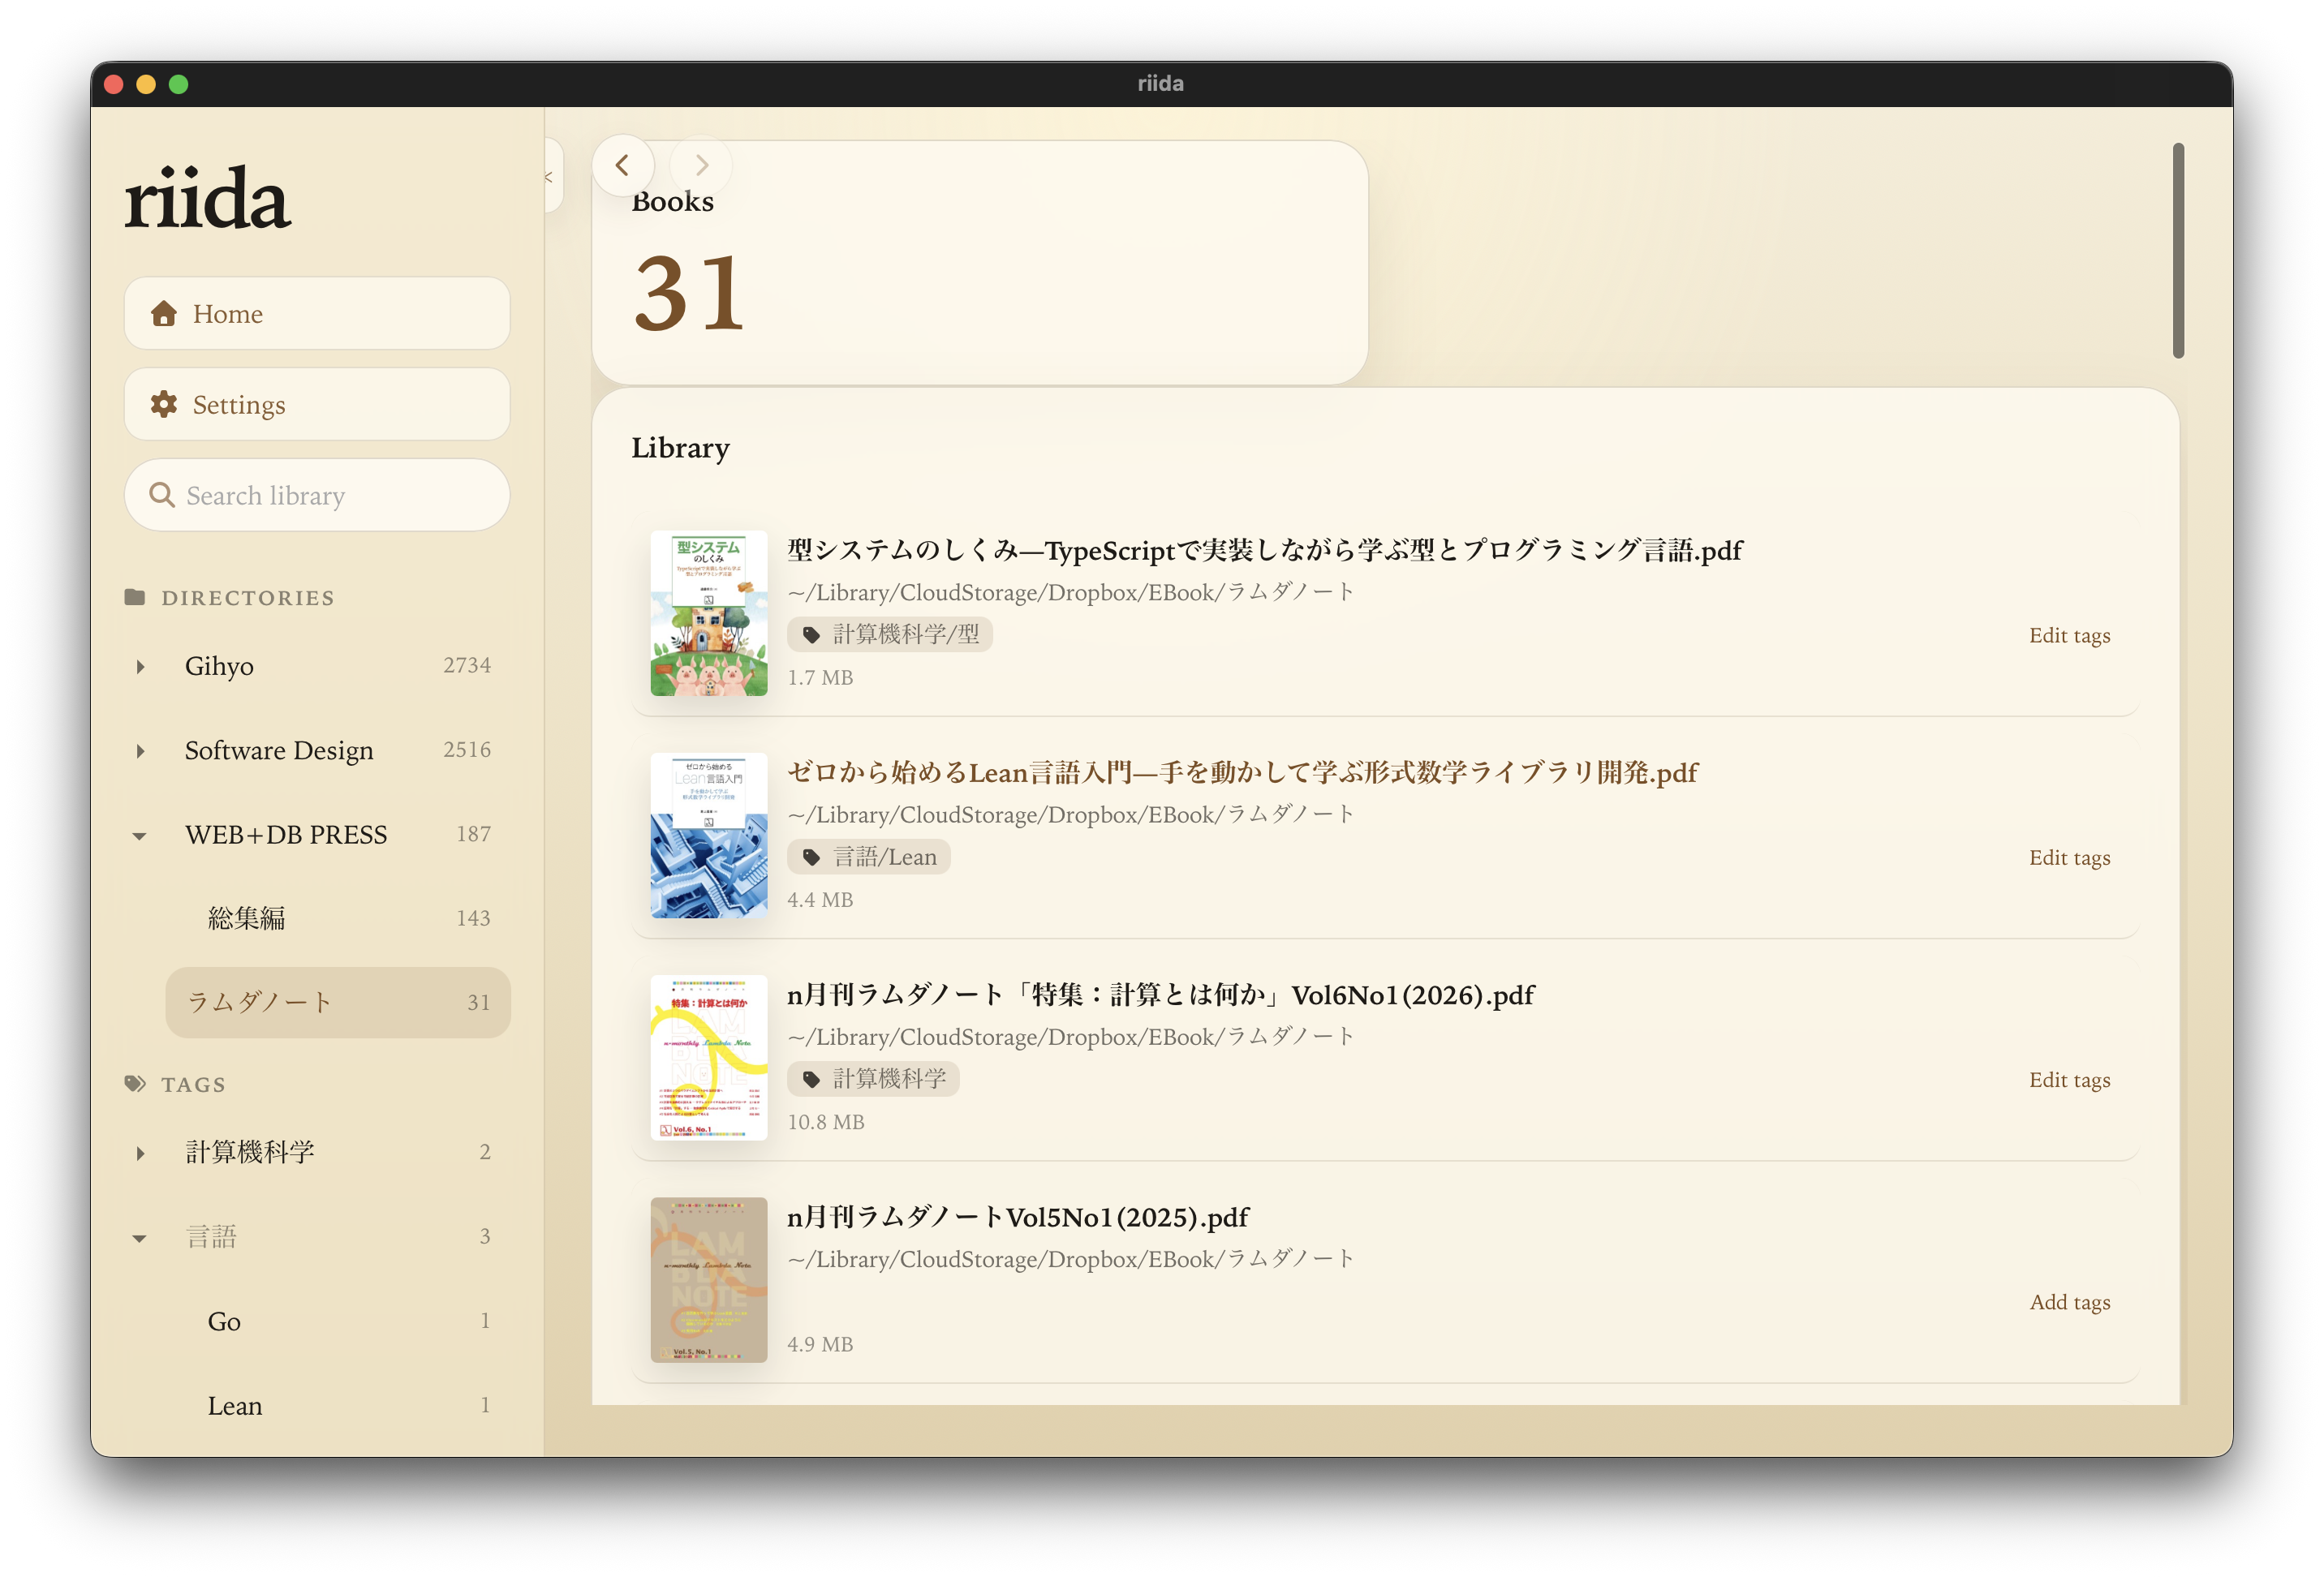
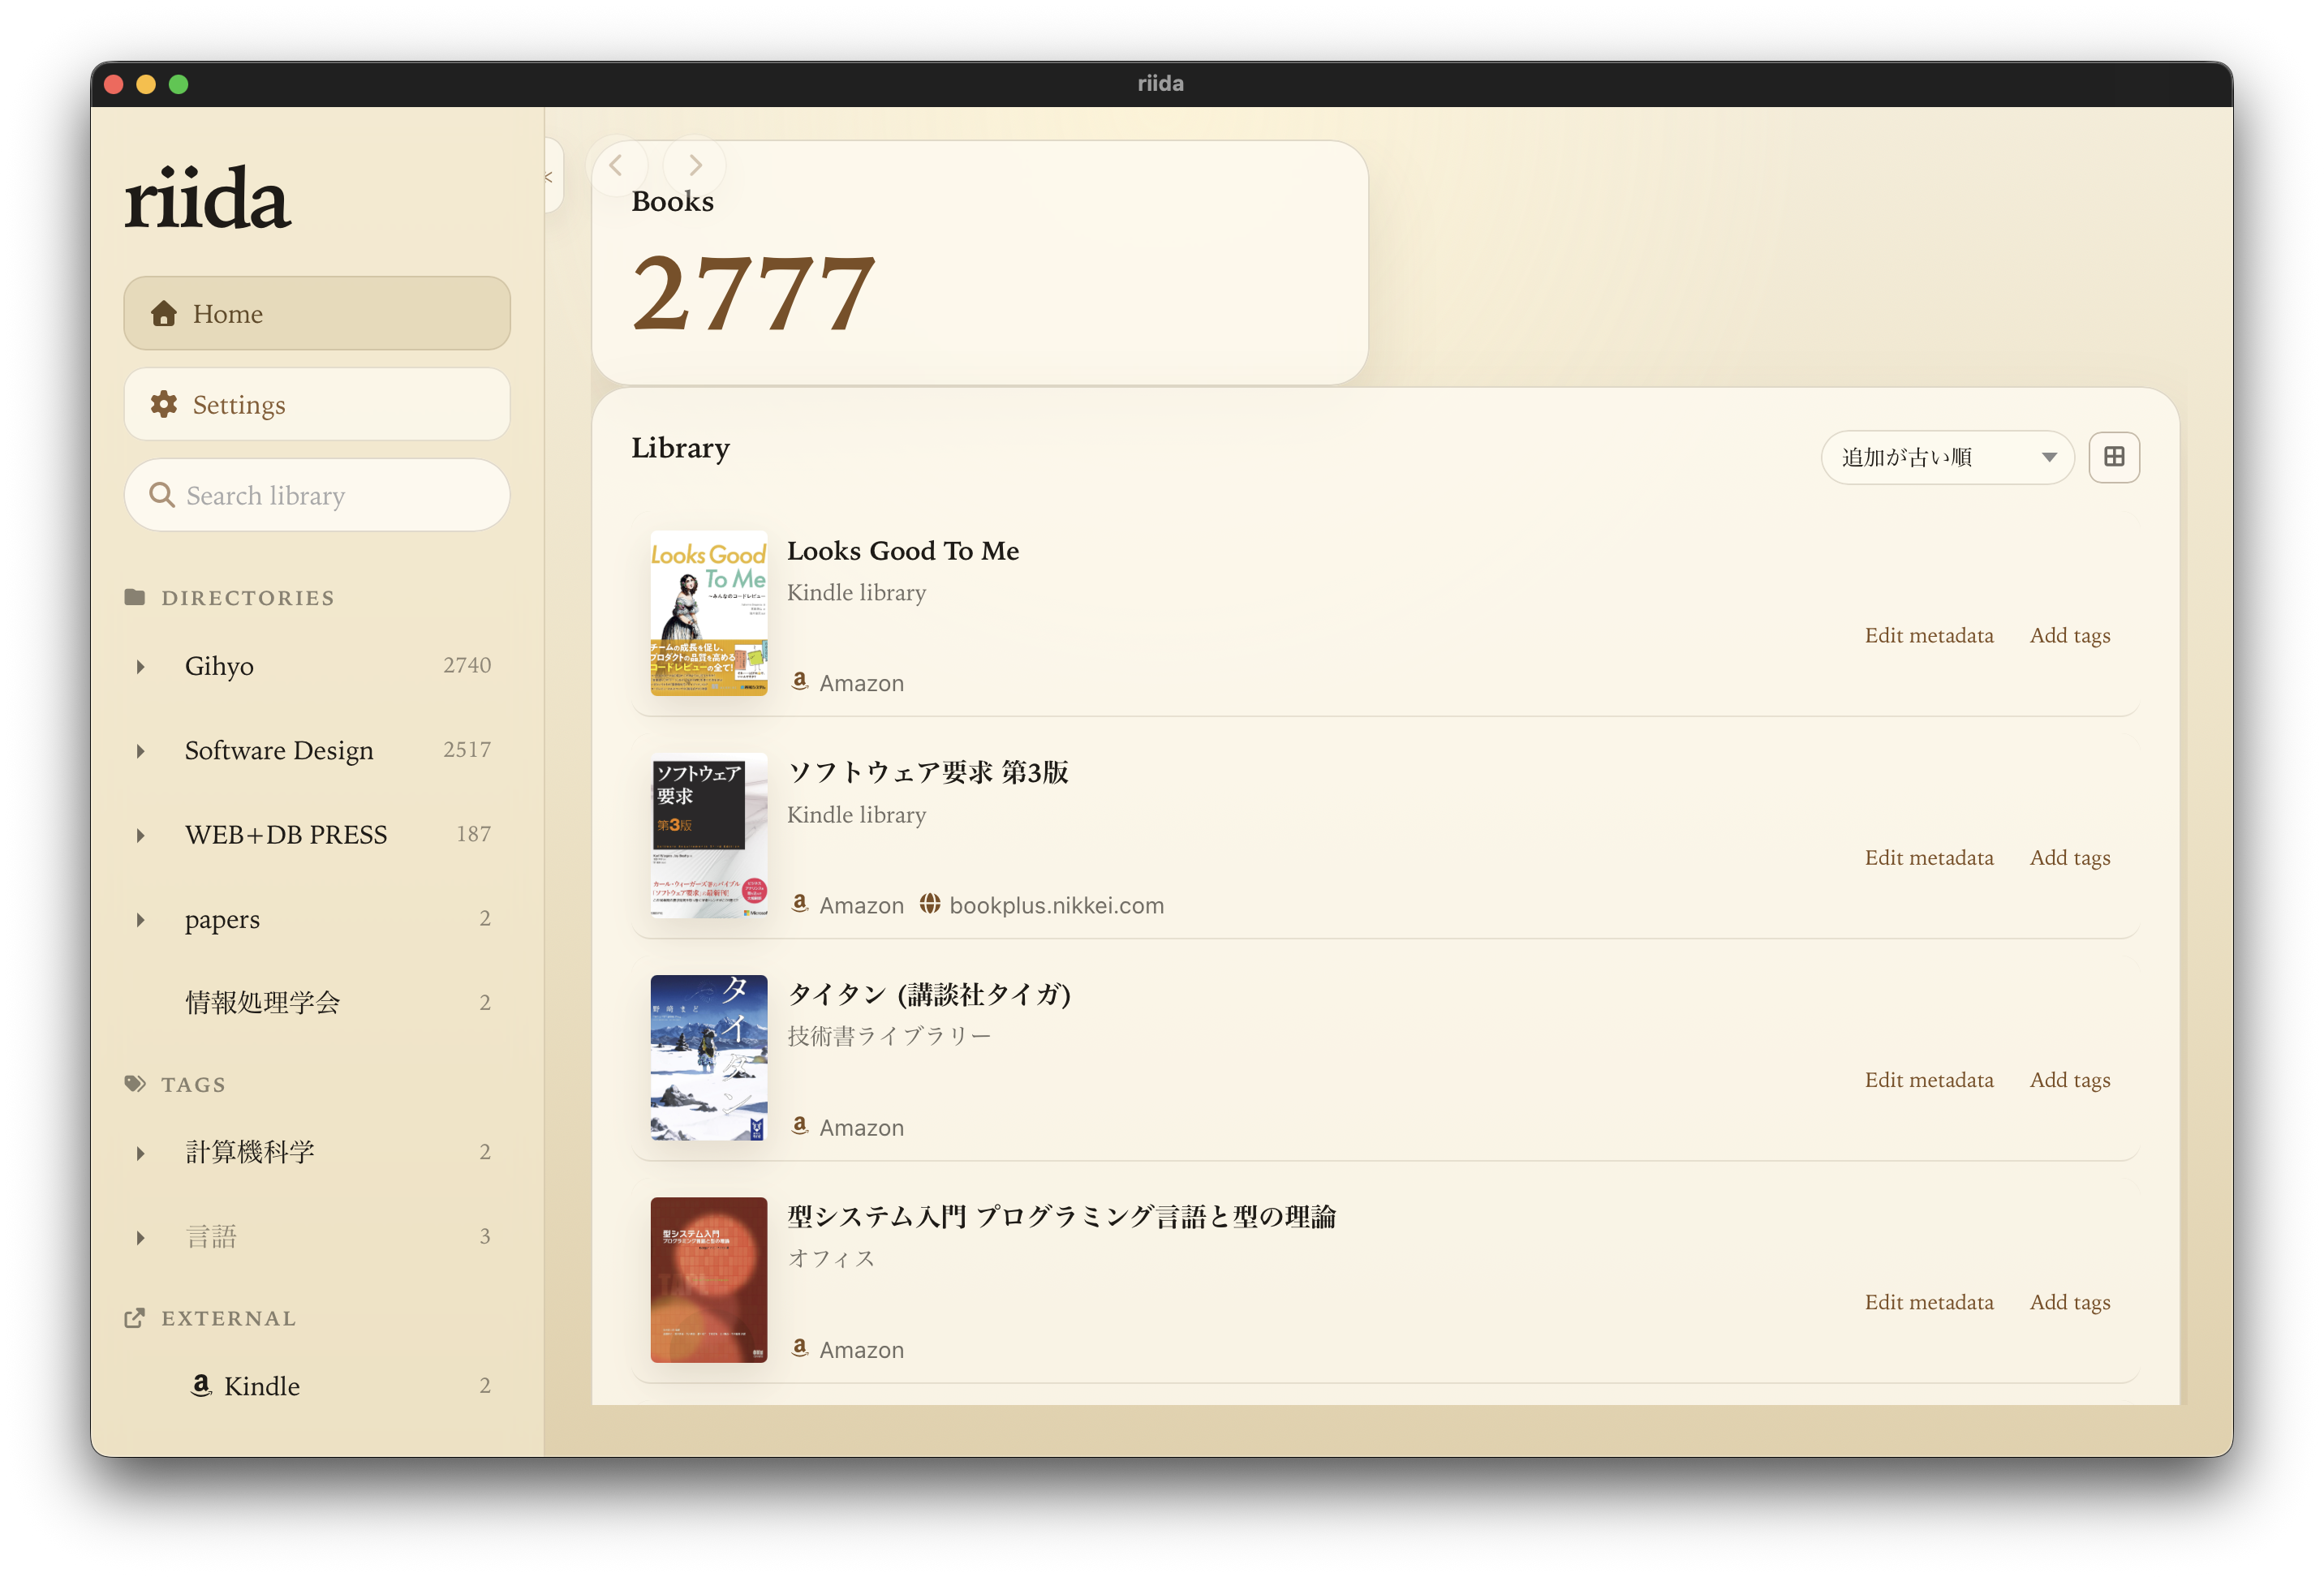
Rewrite README for end users and refresh main screenshot

diff --git a/README.md b/README.md
@@ -1,12 +1,22 @@
 # riida
 
-`riida` is a Tauri + Rust desktop app for managing and reading local PDF libraries.
+`riida` is a desktop reading app and library manager for your local PDF and EPUB collection.
 
-It was created to meet the needs of an author who owns more than 1,000 ebooks and wants to reach the right book quickly through a single bookshelf app with a built-in PDF reader.
+It was built for readers who own hundreds or thousands of ebooks and want a single bookshelf with a built-in reader, fast search, notes, and metadata management.
 
-The name "Riida" comes from "Reader", reflecting that primary goal.
+The name comes from "Reader."
 
 ![](img/screenshot-main.png)
+
+## What you can do
+
+- Index PDFs and EPUBs from one or more folders you choose, and keep them in sync as files change
+- Browse your library by directory, tag, or full-text search across titles and authors
+- Read PDFs and EPUBs in the built-in viewer, with viewer settings remembered per file
+- Take notes on any book, autosaved to your machine
+- Edit metadata (title, authors, publisher, release date, language, cover, etc.)
+- Tag books and bulk-edit tags or metadata for many books at once
+- Track external books you don't own a file for — for example, register Kindle purchases as library entries with metadata
 
 ## Install
 
@@ -14,34 +24,62 @@ Download an installer for your platform from:
 
 - [riida releases](https://github.com/zonuexe/riida/releases)
 
-On macOS, if Gatekeeper refuses to open the downloaded app, move it to `/Applications` and run:
+### macOS
 
-```bash
-xattr -cr /Applications/riida.app
+riida is not signed with a paid Apple Developer ID, so Gatekeeper may refuse to open it on first launch. To allow it:
+
+1. Move `riida.app` to `/Applications`
+2. Run:
+
+   ```bash
+   xattr -cr /Applications/riida.app
+   ```
+
+3. Open the app
+
+This is intended for personal use on your own machine.
+
+## Quick start
+
+1. Launch the app and open **Settings**
+2. Add one or more folders containing your PDFs/EPUBs to **Library roots**
+3. Save — riida scans the folders and shows your library on the main screen
+4. Click any book to start reading
+
+The library refreshes automatically when you add or remove files in those folders.
+
+## Power-user tools
+
+### Update book metadata via Claude Code (MCP server)
+
+riida ships with an [MCP](https://modelcontextprotocol.io/) server that lets [Claude Code](https://claude.com/product/claude-code) (or Claude Desktop) read your library and fill in missing metadata for you.
+
+With the MCP server configured, you can ask Claude things like:
+
+```
+Find books missing title or author, read the first few pages of each PDF,
+guess the title and author from the content, and write the metadata back.
 ```
 
-It is currently focused on:
+You can also combine it with [techbook-mcp](https://github.com/zonuexe/techbook-mcp) to look up Japanese technical books by title and bulk-fill metadata across your library.
 
-- indexing PDFs from a watched local folder
-- browsing the library by directory and search
-- reading with either native PDF rendering or PDF.js
-- keeping per-file notes and viewer preferences locally
+For setup and the full tool list, see [`mcp-server/README.md`](mcp-server/README.md).
 
-## Current Status
+### Amazon.co.jp metadata bookmarklet
 
-This project is still in active development.
+On a Kindle Store / ebook product page on **Amazon.co.jp**, this bookmarklet scrapes the visible product details and copies them as JSON to your clipboard. The JSON shape matches what riida's book metadata editor accepts in its **JSON import** field (title, authors, description, publisher, release date, language, ASIN, cover URL).
 
-The current working setup assumes a local PDF collection such as:
+**Install:** create a new bookmark and paste the entire string below into the bookmark's URL / location field (it must start with `javascript:`). Then open an Amazon.co.jp product page and activate the bookmark.
 
-```toml
-library_roots = ["~/Documents/Ebooks/"]
+**Notes:** Amazon may change their HTML at any time, which can break extraction. Bookmarklets run in the page context — only install code you trust. Clipboard copy requires a secure context (`https://`) and may prompt for permission in some browsers.
+
+```text
+javascript:(async()=>{const norm=s=>(s||'').replace(/[\u200e\u200f\xa0]/g,' ').replace(/\s+/g,' ').trim();const uniq=arr=>[...new Set(arr.filter(Boolean))];const pick=selectors=>{for(const selector of selectors){const el=document.querySelector(selector);if(!el)continue;const text=norm(el.textContent);if(text)return text;}return'';};const fallbackTitle=()=>{let t=document.querySelector('meta[name="title"]')?.content||document.title||'';t=norm(t).replace(/^Amazon\.co\.jp:\s*/,'').replace(/\s+eBook\s*:\s.*$/,'').replace(/\s*:\s*Kindleストア\s*$/,'');if(t.includes(' | '))t=t.split(' | ')[0];return norm(t);};const cleanLabel=s=>norm(s).replace(/\s*[:：]\s*$/,'').trim();const parseDate=s=>{s=norm(s);let m=s.match(/(\d{4})[\/-](\d{1,2})[\/-](\d{1,2})/)||s.match(/(\d{4})年\s*(\d{1,2})月\s*(\d{1,2})日/);if(!m)return'';const[,y,mo,d]=m;return`${y}-${String(mo).padStart(2,'0')}-${String(d).padStart(2,'0')}`;};const parseLanguage=s=>{s=norm(s);const map={'日本語':'ja','英語':'en','フランス語':'fr','ドイツ語':'de','スペイン語':'es','イタリア語':'it','ポルトガル語':'pt','ロシア語':'ru','韓国語':'ko','中国語':'zh','中国語(簡体字)':'zh-Hans','中国語（簡体字）':'zh-Hans','中国語(繁体字)':'zh-Hant','中国語（繁体字）':'zh-Hant'};if(map[s])return map[s];const m=s.match(/^([a-z]{2})(?:[-_][A-Za-z]{2,4})?$/i);return m?m[1].toLowerCase():'';};const addDetail=(details,label,value)=>{label=cleanLabel(label);value=norm(value);if(label&&value&&!(label in details))details[label]=value;};const extractDetails=()=>{const details={};document.querySelectorAll('#detailBulletsWrapper_feature_div li,#detailBullets_feature_div li').forEach(li=>{const labelEl=li.querySelector('.a-text-bold');if(!labelEl)return;const label=cleanLabel(labelEl.textContent);let value='';const listItem=li.querySelector('.a-list-item')||li;for(const child of Array.from(listItem.children)){if(child===labelEl)continue;const text=norm(child.textContent);if(text){value=text;break;}}if(!value){value=norm(li.textContent.replace(labelEl.textContent,'')).replace(/^[:：]\s*/,'');}addDetail(details,label,value);});document.querySelectorAll('#productDetails_detailBullets_sections1 tr,#productDetails_techSpec_section_1 tr').forEach(tr=>{addDetail(details,tr.querySelector('th')?.textContent,tr.querySelector('td')?.textContent);});document.querySelectorAll('.rpi-attribute-content').forEach(card=>{addDetail(details,card.querySelector('.rpi-attribute-label,[class*="attribute-label"]')?.textContent,card.querySelector('.rpi-attribute-value,[class*="attribute-value"]')?.textContent);});return details;};const extractAuthors=()=>uniq(Array.from(document.querySelectorAll('#bylineInfo .author,#bylineInfo_feature_div .author')).map(el=>{const a=el.querySelector('a');const raw=a?a.textContent:(el.childNodes[0]?.textContent||el.textContent||'');return norm(raw).replace(/\s*\([^)]*\)\s*,?$/,'').trim();}));const extractDescription=()=>{const root=document.querySelector('#bookDescription_feature_div .a-expander-content')||document.querySelector('#bookDescription_feature_div')||document.querySelector('#productDescription');if(!root)return'';const clone=root.cloneNode(true);clone.querySelectorAll('script,style,noscript').forEach(n=>n.remove());return norm(clone.textContent.replace(/続きを読む|もっと少なく読む/g,''));};const extractCover=()=>{const img=document.getElementById('landingImage')||document.getElementById('imgBlkFront')||document.getElementById('ebooksImgBlkFront');if(!img)return'';let url=img.getAttribute('data-old-hires');if(!url){const dyn=img.getAttribute('data-a-dynamic-image');if(dyn){try{const urls=Object.keys(JSON.parse(dyn));url=urls[urls.length-1];}catch(e){}}}return url||img.src||'';};const details=extractDetails();const data={};const title=pick(['#productTitle','#ebooksProductTitle','h1#title span','#title span'])||fallbackTitle();const authors=extractAuthors();const description=extractDescription();const publisher=details['出版社']||'';const releaseDate=parseDate(details['発売日']||'')||parseDate(pick(['#productSubtitle']));const language=parseLanguage(details['言語']||'');const asin=norm(document.querySelector('#ASIN')?.value||details['ASIN']||details['ISBN-10']||'');const coverUrl=extractCover();if(title)data.title=title;if(authors.length)data.authors=authors;if(description)data.description=description;if(publisher)data.publisher=publisher;if(releaseDate)data.releaseDate=releaseDate;if(language)data.language=language;if(asin)data.asin=asin;if(coverUrl)data.coverUrl=coverUrl;const json=JSON.stringify(data,null,2);const copy=async text=>{if(navigator.clipboard&&window.isSecureContext){try{await navigator.clipboard.writeText(text);return true;}catch(_){}}const ta=document.createElement('textarea');ta.value=text;ta.setAttribute('readonly','');ta.style.position='fixed';ta.style.top='0';ta.style.left='0';ta.style.opacity='0';document.body.appendChild(ta);ta.focus();ta.select();ta.setSelectionRange(0,ta.value.length);let ok=false;try{ok=document.execCommand('copy');}catch(_){}ta.remove();return ok;};const copied=await copy(json);if(copied){alert('JSONをクリップボードにコピーしました。\n\n'+json);}else{prompt('コピーに失敗したため、ここから手動でコピーしてください。',json);}})().catch(err=>{console.error(err);alert('抽出に失敗しました: '+(err&&err.message?err.message:err));});
 ```
 
-## Configuration
+## Configuration file (optional)
 
-Configuration is loaded from `riida.toml`.
-
-The app prefers:
+Most settings can be changed from the **Settings** screen. If you prefer editing a config file directly, riida reads:
 
 - `~/.config/riida/riida.toml` when `~/.config` exists
 - otherwise the OS-native config directory
@@ -54,111 +92,21 @@ excluded_patterns = ["**/backup/**", "*.bak.pdf"]
 pdf_renderer = "pdfjs"
 ```
 
-For development, copy [`riida.toml.example`](riida.toml.example) to `riida.toml` and edit it locally.
+riida stores library data in the OS data directory and thumbnails in the OS cache directory. Older versions kept these in the project root; existing files are migrated forward automatically on startup when possible.
 
-## MCP server
-
-riida comes with an MCP (Model Context Protocol) server that lets Claude Code update book metadata directly from a conversation.
-
-```bash
-cd mcp-server
-npm install
-```
-
-Add to your Claude Code project config (`.mcp.json`):
-
-```json
-{
-  "mcpServers": {
-    "riida": {
-      "type": "stdio",
-      "command": "npx",
-      "args": ["-y", "riida-mcp"]
-    }
-  }
-}
-```
-
-Once connected, you can ask Claude to fill in missing metadata:
-
-```
-メタデータが入っていない本を一覧して、PDFの冒頭を読んでタイトルと著者を推定し、まとめて書き込んで
-```
-
-You can also combine it with [techbook-mcp](https://github.com/zonuexe/techbook-mcp) to search Japanese technical book databases and bulk-fill metadata across your library.
-
-For full tool reference and the techbook-mcp integration guide, see [mcp-server/README.md](mcp-server/README.md).
-
-## Amazon.co.jp metadata bookmarklet
-
-On a Kindle Store / ebook product page on **Amazon.co.jp**, you can use this bookmarklet to scrape visible product details and copy a JSON object to the clipboard. The shape matches what `riida` expects when you paste into the book metadata editor’s JSON import (title, authors, description, publisher, release date, language, ASIN, cover URL).
-
-**Install:** create a new bookmark and paste the entire string below into the bookmark’s URL / location field (it must start with `javascript:`). Then open an Amazon.co.jp product page and activate the bookmark.
-
-**Notes:** Amazon may change their HTML at any time, which can break extraction. Bookmarklets run in the page context—only install code you trust. Clipboard copy requires a secure context (`https://`) and may prompt for permission in some browsers.
-
-```text
-javascript:(async()=>{const norm=s=>(s||'').replace(/[\u200e\u200f\xa0]/g,' ').replace(/\s+/g,' ').trim();const uniq=arr=>[...new Set(arr.filter(Boolean))];const pick=selectors=>{for(const selector of selectors){const el=document.querySelector(selector);if(!el)continue;const text=norm(el.textContent);if(text)return text;}return'';};const fallbackTitle=()=>{let t=document.querySelector('meta[name="title"]')?.content||document.title||'';t=norm(t).replace(/^Amazon\.co\.jp:\s*/,'').replace(/\s+eBook\s*:\s.*$/,'').replace(/\s*:\s*Kindleストア\s*$/,'');if(t.includes(' | '))t=t.split(' | ')[0];return norm(t);};const cleanLabel=s=>norm(s).replace(/\s*[:：]\s*$/,'').trim();const parseDate=s=>{s=norm(s);let m=s.match(/(\d{4})[\/-](\d{1,2})[\/-](\d{1,2})/)||s.match(/(\d{4})年\s*(\d{1,2})月\s*(\d{1,2})日/);if(!m)return'';const[,y,mo,d]=m;return`${y}-${String(mo).padStart(2,'0')}-${String(d).padStart(2,'0')}`;};const parseLanguage=s=>{s=norm(s);const map={'日本語':'ja','英語':'en','フランス語':'fr','ドイツ語':'de','スペイン語':'es','イタリア語':'it','ポルトガル語':'pt','ロシア語':'ru','韓国語':'ko','中国語':'zh','中国語(簡体字)':'zh-Hans','中国語（簡体字）':'zh-Hans','中国語(繁体字)':'zh-Hant','中国語（繁体字）':'zh-Hant'};if(map[s])return map[s];const m=s.match(/^([a-z]{2})(?:[-_][A-Za-z]{2,4})?$/i);return m?m[1].toLowerCase():'';};const addDetail=(details,label,value)=>{label=cleanLabel(label);value=norm(value);if(label&&value&&!(label in details))details[label]=value;};const extractDetails=()=>{const details={};document.querySelectorAll('#detailBulletsWrapper_feature_div li,#detailBullets_feature_div li').forEach(li=>{const labelEl=li.querySelector('.a-text-bold');if(!labelEl)return;const label=cleanLabel(labelEl.textContent);let value='';const listItem=li.querySelector('.a-list-item')||li;for(const child of Array.from(listItem.children)){if(child===labelEl)continue;const text=norm(child.textContent);if(text){value=text;break;}}if(!value){value=norm(li.textContent.replace(labelEl.textContent,'')).replace(/^[:：]\s*/,'');}addDetail(details,label,value);});document.querySelectorAll('#productDetails_detailBullets_sections1 tr,#productDetails_techSpec_section_1 tr').forEach(tr=>{addDetail(details,tr.querySelector('th')?.textContent,tr.querySelector('td')?.textContent);});document.querySelectorAll('.rpi-attribute-content').forEach(card=>{addDetail(details,card.querySelector('.rpi-attribute-label,[class*="attribute-label"]')?.textContent,card.querySelector('.rpi-attribute-value,[class*="attribute-value"]')?.textContent);});return details;};const extractAuthors=()=>uniq(Array.from(document.querySelectorAll('#bylineInfo .author,#bylineInfo_feature_div .author')).map(el=>{const a=el.querySelector('a');const raw=a?a.textContent:(el.childNodes[0]?.textContent||el.textContent||'');return norm(raw).replace(/\s*\([^)]*\)\s*,?$/,'').trim();}));const extractDescription=()=>{const root=document.querySelector('#bookDescription_feature_div .a-expander-content')||document.querySelector('#bookDescription_feature_div')||document.querySelector('#productDescription');if(!root)return'';const clone=root.cloneNode(true);clone.querySelectorAll('script,style,noscript').forEach(n=>n.remove());return norm(clone.textContent.replace(/続きを読む|もっと少なく読む/g,''));};const extractCover=()=>{const img=document.getElementById('landingImage')||document.getElementById('imgBlkFront')||document.getElementById('ebooksImgBlkFront');if(!img)return'';let url=img.getAttribute('data-old-hires');if(!url){const dyn=img.getAttribute('data-a-dynamic-image');if(dyn){try{const urls=Object.keys(JSON.parse(dyn));url=urls[urls.length-1];}catch(e){}}}return url||img.src||'';};const details=extractDetails();const data={};const title=pick(['#productTitle','#ebooksProductTitle','h1#title span','#title span'])||fallbackTitle();const authors=extractAuthors();const description=extractDescription();const publisher=details['出版社']||'';const releaseDate=parseDate(details['発売日']||'')||parseDate(pick(['#productSubtitle']));const language=parseLanguage(details['言語']||'');const asin=norm(document.querySelector('#ASIN')?.value||details['ASIN']||details['ISBN-10']||'');const coverUrl=extractCover();if(title)data.title=title;if(authors.length)data.authors=authors;if(description)data.description=description;if(publisher)data.publisher=publisher;if(releaseDate)data.releaseDate=releaseDate;if(language)data.language=language;if(asin)data.asin=asin;if(coverUrl)data.coverUrl=coverUrl;const json=JSON.stringify(data,null,2);const copy=async text=>{if(navigator.clipboard&&window.isSecureContext){try{await navigator.clipboard.writeText(text);return true;}catch(_){}}const ta=document.createElement('textarea');ta.value=text;ta.setAttribute('readonly','');ta.style.position='fixed';ta.style.top='0';ta.style.left='0';ta.style.opacity='0';document.body.appendChild(ta);ta.focus();ta.select();ta.setSelectionRange(0,ta.value.length);let ok=false;try{ok=document.execCommand('copy');}catch(_){}ta.remove();return ok;};const copied=await copy(json);if(copied){alert('JSONをクリップボードにコピーしました。\n\n'+json);}else{prompt('コピーに失敗したため、ここから手動でコピーしてください。',json);}})().catch(err=>{console.error(err);alert('抽出に失敗しました: '+(err&&err.message?err.message:err));});
-```
-
-## Local Storage
-
-The app separates storage by role:
-
-- config: config directory
-- data: app data directory, including SQLite
-- cache: cache directory, including thumbnails
-
-Legacy project-root files are migrated forward automatically on startup when possible.
-
-## License and Copyright
+## License
 
 This project is licensed under the [Mozilla Public License 2.0](https://www.mozilla.org/en-US/MPL/2.0/). See [`LICENSE`](LICENSE).
 
-Licenses and notice texts for bundled Rust and JavaScript dependencies are collected in [`THIRD-PARTY-LICENSES-rust.md`](THIRD-PARTY-LICENSES-rust.md) and [`THIRD-PARTY-LICENSES-js.md`](THIRD-PARTY-LICENSES-js.md).
-
-Vendored third-party assets are kept with their own license text in the repository when needed. For example, the bundled Font Awesome files include [their license text](src/vendor/fontawesome/LICENSE.txt).
+Bundled third-party dependencies are listed in [`THIRD-PARTY-LICENSES-rust.md`](THIRD-PARTY-LICENSES-rust.md) and [`THIRD-PARTY-LICENSES-js.md`](THIRD-PARTY-LICENSES-js.md). Vendored assets keep their own license texts in the repository (e.g. [Font Awesome](src/vendor/fontawesome/LICENSE.txt)).
 
 > This Source Code Form is subject to the terms of the Mozilla Public License, v. 2.0. If a copy of the MPL was not distributed with this file, You can obtain one at <https://mozilla.org/MPL/2.0/>.
 
 Copyright belongs to the contributors to this repository unless otherwise noted.
 
-## macOS Distribution Note
+## For developers
 
-This project does not use Apple's paid code signing and notarization workflow.
-
-If you download a macOS build artifact, Gatekeeper may report that the app is damaged or unsafe to open.
-
-Example:
-
-```bash
-cp -R riida.app /Applications/
-xattr -cr /Applications/riida.app
-open /Applications/riida.app
-```
-
-This is intended only for local, personal use on your own machine.
-
-## Development
-
-The project includes a Nix flake-based development shell.
-
-```bash
-nix --extra-experimental-features 'nix-command flakes' develop
-npm install
-npm run tauri dev
-```
-
-Basic verification:
-
-```bash
-npm run build
-cargo check --manifest-path src-tauri/Cargo.toml
-```
-
-## Contributing
-
-- Minimum contributor workflow: [CONTRIBUTING.md](CONTRIBUTING.md)
-- UI and design system: [DESIGN.md](DESIGN.md)
-- Architecture and system design notes: [docs/design-doc.md](docs/design-doc.md)
-- Development details and implementation notes: [AGENTS.md](AGENTS.md)
+- [CONTRIBUTING.md](CONTRIBUTING.md) — minimum contributor workflow
+- [DESIGN.md](DESIGN.md) — UI design system
+- [docs/design-doc.md](docs/design-doc.md) — architecture and system design
+- [AGENTS.md](AGENTS.md) — implementation notes and development setup